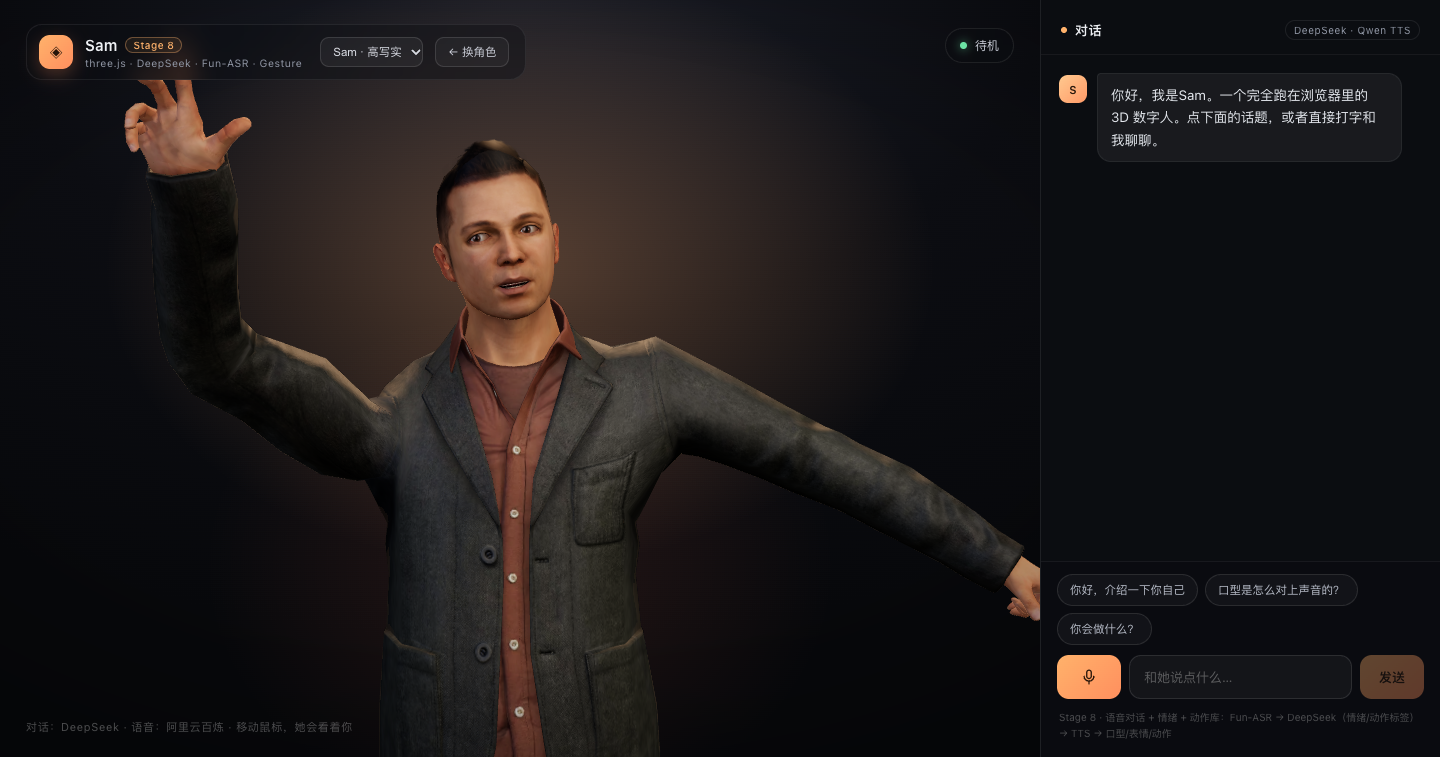
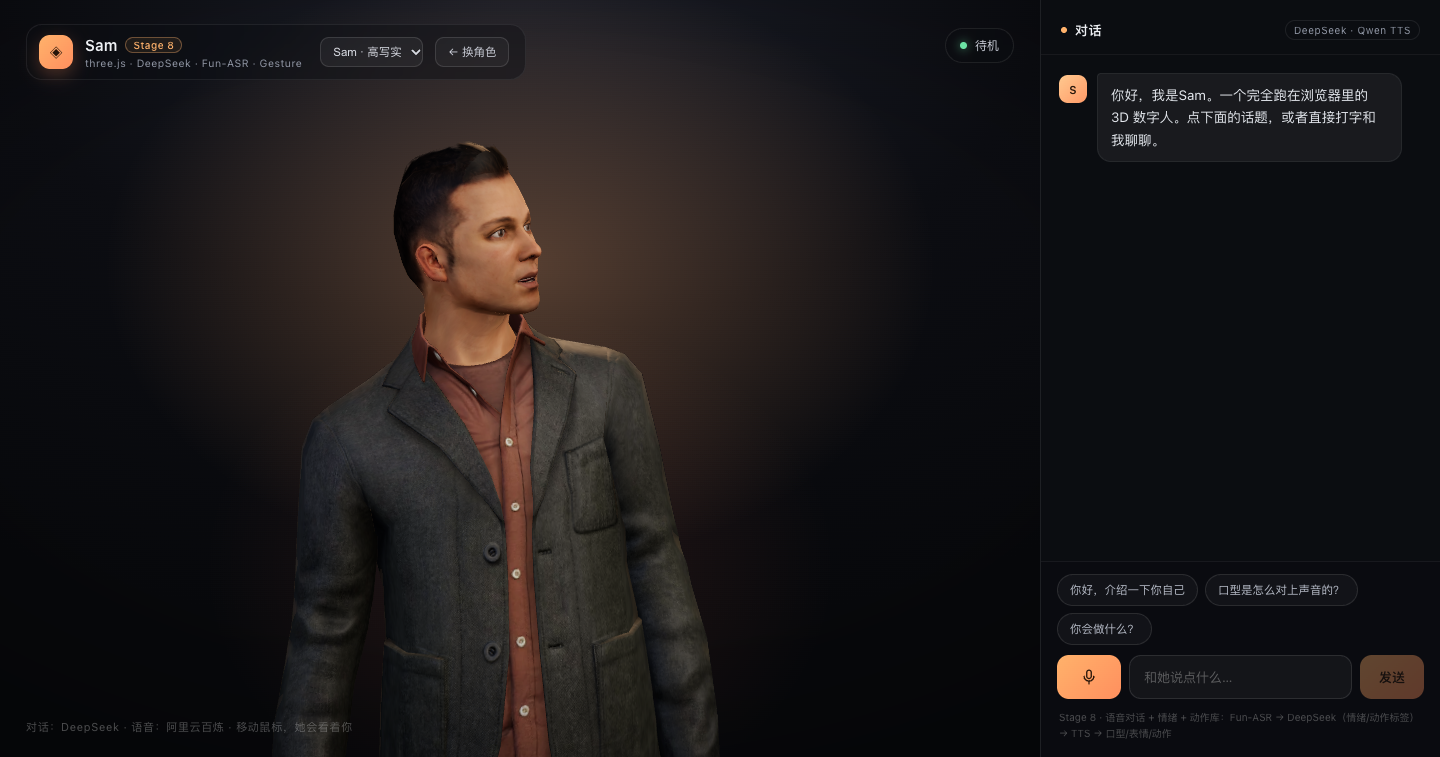
fix(character): 用世界空间旋转把手臂压到自然下垂
- Blender 里改 rest pose 无法生效：glTF 动画是绝对局部旋转，会覆盖 rest
- 改为每帧在 mixer 之后，对上臂施加世界空间旋转（rest 方向 → 向下）
- 世界空间计算绕开 Bip01 各骨骼局部轴不一致的问题
- 挥手期间暂停修正，结束后自动恢复下垂
- 实测 idle 手臂在身侧、挥手抬手正常、挥完回到身侧

diff --git a/src/character/gltf/GltfCharacter.ts b/src/character/gltf/GltfCharacter.ts
@@ -80,6 +80,7 @@ export class GltfCharacter implements CharacterAdapter {
   private waveAction: THREE.AnimationAction | null = null
   private lastGestureStart = 0
   private waveActive = false
+  private armFix = new Map<THREE.Object3D, THREE.Quaternion>()
 
   private smooth: SmoothState = {
     mouth: { aa: 0, ih: 0, ou: 0, ee: 0, oh: 0 },
@@ -108,7 +109,30 @@ export class GltfCharacter implements CharacterAdapter {
     this.object.add(root)
     this.normalize(root, profile.height ?? 1.7)
     this.collect(root)
+    this.setupArmFix()
     this.setupAnimations(gltf.animations ?? [], profile)
+  }
+
+  /** 用世界空间旋转把 T/A-pose 的手臂转下来，绕开骨骼局部轴差异 */
+  private setupArmFix() {
+    this.object.updateMatrixWorld(true)
+    const sides: Array<[string, number]> = [
+      ['Bip01_L_UpperArm', 1],
+      ['Bip01_R_UpperArm', -1],
+    ]
+    for (const [name, sign] of sides) {
+      const bone = this.bones.get(name)
+      if (!bone) continue
+      const child = bone.children.find((c) => (c as THREE.Bone).isBone) as THREE.Object3D | undefined
+      const bonePos = new THREE.Vector3()
+      bone.getWorldPosition(bonePos)
+      const childPos = new THREE.Vector3()
+      if (child) child.getWorldPosition(childPos)
+      else childPos.copy(bonePos).add(new THREE.Vector3(sign, 0, 0))
+      const restDir = childPos.sub(bonePos).normalize()
+      const target = new THREE.Vector3(sign * 0.15, -1, 0).normalize()
+      this.armFix.set(bone, new THREE.Quaternion().setFromUnitVectors(restDir, target))
+    }
   }
 
   private setupAnimations(source: THREE.AnimationClip[], profile: CharacterProfile) {
@@ -253,21 +277,16 @@ export class GltfCharacter implements CharacterAdapter {
     }
     this.mixer?.update(dt)
 
-    // Rocketbox 动画基于 A-pose（手臂外张 45°），这里统一往下压，
+    // 烘焙动画基于 T/A-pose（手臂外张），用世界空间旋转统一转下来，
     // 播放手势时不压，避免把抬手的动作压回去
-    if (this.mixer && !this.waveActive) {
-      const lRest = this.rest.get('Bip01_L_UpperArm')
-      const rRest = this.rest.get('Bip01_R_UpperArm')
-      const lFore = this.rest.get('Bip01_L_Forearm')
-      const rFore = this.rest.get('Bip01_R_Forearm')
-      const l = this.bones.get('Bip01_L_UpperArm')
-      const r = this.bones.get('Bip01_R_UpperArm')
-      const lf = this.bones.get('Bip01_L_Forearm')
-      const rf = this.bones.get('Bip01_R_Forearm')
-      if (l && lRest) l.quaternion.copy(lRest).multiply(new THREE.Quaternion().setFromEuler(new THREE.Euler(0, 0, -1.15)))
-      if (r && rRest) r.quaternion.copy(rRest).multiply(new THREE.Quaternion().setFromEuler(new THREE.Euler(0, 0, -1.15)))
-      if (lf && lFore) lf.quaternion.copy(lFore).multiply(new THREE.Quaternion().setFromEuler(new THREE.Euler(0, -0.15, 0)))
-      if (rf && rFore) rf.quaternion.copy(rFore).multiply(new THREE.Quaternion().setFromEuler(new THREE.Euler(0, 0.15, 0)))
+    if (this.mixer && !this.waveActive && this.armFix.size) {
+      for (const [bone, qWorld] of this.armFix) {
+        const parent = bone.parent
+        if (!parent) continue
+        const pq = parent.getWorldQuaternion(new THREE.Quaternion())
+        const delta = pq.clone().invert().multiply(qWorld).multiply(pq)
+        bone.quaternion.premultiply(delta)
+      }
     }
 
     if (gesture.tag && gesture.start !== this.lastGestureStart) {

diff --git a/README.md b/README.md
@@ -190,7 +190,7 @@ public/characters/*.jpg           # 选择页缩略图
   贴图取自 coasty.ai 的同角色 WebP 版本，需要在 Blender 里把 V 轴翻转一次才对得上。
 - **Sam / Maya 现在都有烘焙动画**：Idle 用 `f_idle_waiting_02`，手势用 `gestic_presentation`，
   在 Blender 里挂到同一套 Bip01 骨架上导出。Idle 循环播放，`[wave]` 时交叉淡入一段抬手手势。
-  Rocketbox 动画基于 A-pose（手臂外张），所以 idle 时会在 mixer 之后把上臂/前臂压回自然下垂；挥手时暂停这个覆盖。
+  Rocketbox 动画基于 T/A-pose（手臂外张），所以每帧在动画之后用**世界空间旋转**把上臂转到自然下垂方向（绕开 Bip01 局部轴差异）；挥手时暂停这个修正。
   根骨骼的位移/旋转轨道被剥掉，避免角色走出画面或转身背对镜头。
 - **Maya** 是 coasty.ai 的轻量转换版（6 个形变），口型是近似；她适合演示「换一个写实角色」。
 - 两个 GLB 都会在加载时按包围盒归一化到 1.7m、脚底贴地，避免不同资产大小不一致。
@@ -254,7 +254,7 @@ npm test    # vitest：情绪解析 / 对话管线 / 口型时间轴 / VAD
 - 情绪标签依赖模型遵守 prompt，偶尔会漏或一句话多个标签（取最后一个）。
 - 动作是程序化骨骼旋转，没有 IK；手部动作（摸下巴、指自己）暂时只做头部语义动作。
 - Sam / Maya 的手势用的是 Rocketbox 的「展示」动画，不是标准挥手；真正挥手需要单独做一段 clip。
-- 手臂下垂是用旋转覆盖近似出来的，肘部仍略向前；要完全自然需要重做 rest pose 或自定义 idle。
+- 手臂下垂是在动画之后用世界空间旋转修正的（等于一份运行时 rest pose 修正），肘部仍略有弯曲。
 - 两个写实 GLB 都在 20MB 左右，首次加载较慢。
 - Maya 只有 6 个面部形变，口型是近似；Sam 的 175 形变版本口型更好但仍是半写实资产。
 - Sam 的手臂用程序化旋转从 T-pose 放下来，姿态偏「展示」，还不是自然站姿。
